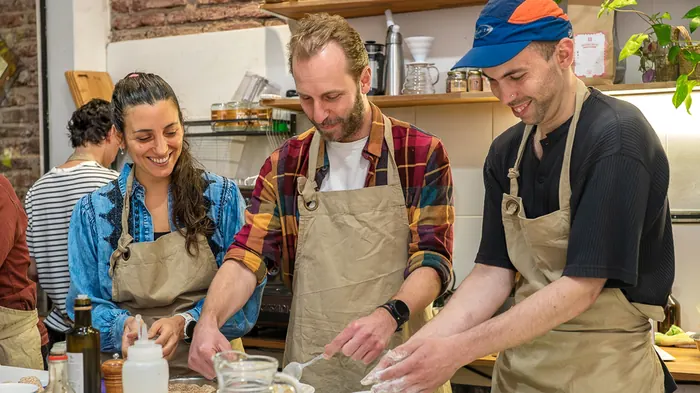
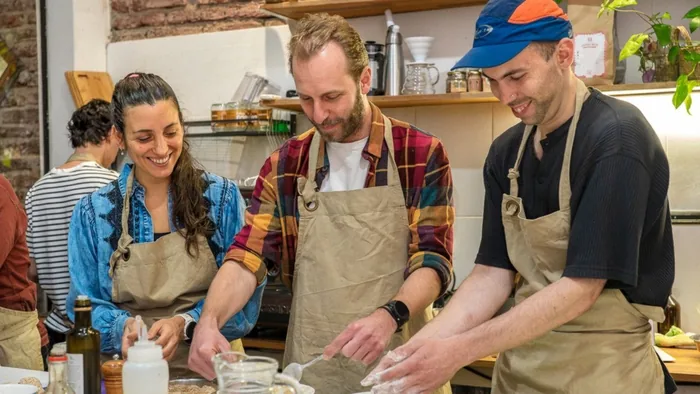
/curso: arriba solo fecha, precio y botón; la boleta completa baja al cierre y se lee en oraciones
- El hero cuenta qué es el curso y ofrece un paso corto: cuándo arranca,
  cuánto sale y «Reservar mi lugar». La ficha con cuotas, grupos y formas de
  pago pasa al cierre, como en /tapeo.
- La boleta pierde la letra de máquina y las mayúsculas espaciadas: cada
  renglón es una oración. Las frases de inicio y de grupos salen de
  data/ofertas.json (curso.inicio_frase y curso.grupos_frase).
- La foto del hero va entera en la computadora, sin cortarse contra el borde.
- La foto del grupo pierde el sobreenfoque y se muestra a 704 px como máximo.

diff --git a/curso.html b/curso.html
@@ -58,69 +58,64 @@
 .hero-leo{font-size:var(--t-nota);color:var(--cal-med);margin-bottom:1.5rem;padding-bottom:1.5rem;border-bottom:1px solid var(--linea)}
 .hero-leo strong{color:var(--cal)}
 .marca-chip{display:inline-flex;align-items:center;border:1px solid var(--linea);border-radius:var(--r);padding:.4rem .85rem;font-family:var(--texto);font-size:var(--t-nota);color:var(--cal-med)}
-@media (max-width:940px){.hero-caja{grid-template-columns:1fr}.hero-col-foto{order:-1}.hero-foto{aspect-ratio:4/3;margin-bottom:1rem}}
-/* En una sola columna (celular y tableta) la ficha de precio medía 871 px en
-   un teléfono de 375: más que la pantalla entera. Y los huecos entre las
-   piezas del hero iban de 0 a 37 px sin orden: el título quedaba pegado a la
-   frase de abajo. Acá va un solo ritmo: 12 px dentro del bloque de título,
-   28 px entre bloques. La ficha pierde relleno y las filas que repetían la
-   fecha de inicio y el lugar, que ya están arriba. La foto pasa de una franja
-   de 4:3 a un cuadro, para que se vean las caras de la clase. */
-@media (max-width:940px){
-  .hero-curso .hero-caja .hero-datos{margin-bottom:.6rem}
-  .hero-curso h1{margin-block:.75rem}
-  .hero-curso .hero-tesis{margin-bottom:0}
-  .hero-curso .hero-caja .comanda{margin-top:1.75rem;padding:1rem 1.05rem .95rem}
-  .hero-curso .comanda-cifra{margin-block:.6rem .15rem;font-size:2.1rem}
-  .hero-curso .comanda-porclase{margin-bottom:.45rem}
-  /* El ahorro va como renglón y no como recuadro: el borde y el relleno sumaban 20 px. */
-  .hero-curso .comanda-ahorro{border:0;padding:0;display:block}
-  .hero-curso .comanda-datos{margin-block:.55rem;padding-top:.55rem}
-  .hero-curso .comanda-datos li{padding-block:.2rem}
-  .hero-curso .comanda-acciones{margin-top:.75rem}
-  .hero-curso .comanda-nota{margin-top:.5rem}
-  .hero-curso .comanda-pagos{margin-top:.6rem;padding-top:.55rem;line-height:1.55}
-  .hero-curso .hero-caja .hero-foto{margin-top:1.75rem;margin-bottom:0;aspect-ratio:1/1}
-  .hero-curso .hero-foto img{object-position:50% 38%}
-  .hero-curso .hero-caja .bajada{margin-top:1.75rem;margin-bottom:0}
-  .hero-curso .hero-caja .hero-leo{margin-top:1rem;margin-bottom:0;padding-bottom:0;border-bottom:0}
-  /* La raya y los 48 px de abajo de esta línea, más el relleno del hero y el
-     de la sección siguiente, sumaban un hueco de casi 300 px antes de
-     «Después del curso». */
-  .hero-curso{padding-bottom:.5rem}
-  /* La ficha del cierre usa el mismo compacto que la de arriba. */
-  .cierre .comanda{padding:1rem 1.05rem .95rem}
-  .cierre .comanda-cifra{margin-block:.6rem .15rem;font-size:2.1rem}
-  .cierre .comanda-datos{margin-block:.55rem;padding-top:.55rem}
-  .cierre .comanda-datos li{padding-block:.2rem}
-  .cierre .comanda-ahorro{border:0;padding:0;display:block}
-}
-/* En el teléfono la cabeza de la ficha partía en tres columnas angostas:
-   «Inscripción · Octubre 2026» a un lado y los dos horarios al otro. Va una
-   debajo de la otra. */
-@media (max-width:560px){.comanda-cabeza{flex-direction:column;align-items:flex-start;gap:.3rem}}
-/* En la computadora la comanda baja hasta los 1.370 px y la foto terminaba a
-   los 800: quedaba media columna vacía. La foto acompaña a la comanda
-   mientras se lee, con el alto de la pantalla como tope. */
+
+/* El hero cuenta qué es el curso y ofrece un solo paso: cuándo arranca,
+   cuánto sale y el botón. La ficha entera con cuotas, grupos y formas de
+   pago baja al cierre, después de los motivos y las dudas, como en /tapeo.
+   Leo, 30/9: «no dejaría tan arriba el ticket». */
+.al-paso{margin-top:1.6rem;padding-top:1.1rem;border-top:1px solid var(--linea);max-width:31rem}
+.al-paso-fecha{font-family:var(--display);font-size:var(--t-bajada);font-weight:500;letter-spacing:-.015em;line-height:1.25;color:var(--cal)}
+.al-paso-precio{margin-top:.35rem;font-size:var(--t-cuerpo);color:var(--cal-med);line-height:1.5;text-wrap:pretty}
+.al-paso-precio strong{color:var(--cal);font-weight:700;font-variant-numeric:tabular-nums}
+.al-paso .comanda-acciones{margin-top:1.05rem}
+.al-paso-mas{margin-top:.8rem;font-size:var(--t-chico);color:var(--cal-med);line-height:1.5}
+.hero-curso .hero-leo{border-bottom:0;padding-bottom:0;margin-top:.9rem}
+
+/* La foto va entera, en su formato de 3 × 4: recortada al ancho de la
+   pantalla se perdía la señora de la izquierda y la foto crecía hasta los
+   760 px de alto. */
 @media (min-width:941px){
-  /* overflow:hidden del encabezado anulaba el sticky; clip recorta igual.
-     Donde clip no existe queda hidden y la foto simplemente no acompaña. */
-  .hero-curso{overflow:clip}
-  .hero-col-foto{position:sticky;top:calc(var(--nav-h) + 1.5rem)}
-  .hero-col-foto .hero-foto{aspect-ratio:auto;height:min(76vh,760px)}
-  .hero-col-foto .hero-foto img{width:100%;height:100%;object-fit:cover}
+  .hero-curso .hero-caja{grid-template-columns:minmax(0,1.3fr) minmax(0,.7fr);align-items:center}
+  .hero-curso .hero-col-foto .hero-foto{margin-right:0;border-radius:var(--r-lg);aspect-ratio:3/4}
+  .hero-curso .bajada{margin-top:1.6rem}
 }
 
-/* ---------- LA COMANDA ---------- */
-.comanda{position:relative;background:var(--musgo);border:1px solid var(--linea);border-radius:4px;padding:1.25rem 1.3rem 1.2rem;box-shadow:0 26px 60px rgba(0,0,0,.45)}
-.comanda-cifra{margin-block:.75rem .2rem;font-family:var(--display);font-size:clamp(2.2rem,3.9vw,2.75rem);color:var(--cal);line-height:1;letter-spacing:-.04em}
-.comanda-cifra small{display:block;font-family:var(--dato);font-size:var(--t-dato);letter-spacing:.14em;text-transform:uppercase;color:var(--cal-baja);margin-bottom:.35rem;font-weight:400}
-.comanda-porclase{font-family:var(--dato);font-size:var(--t-nota);color:var(--cal-med);margin-bottom:.7rem}
-.comanda-ahorro{display:inline-flex;align-items:center;gap:.4rem;font-family:var(--dato);font-size:var(--t-nota);letter-spacing:.05em;color:var(--miel);border:1px solid rgba(240,179,85,.32);border-radius:var(--r);padding:.3rem .8rem;margin-bottom:.6rem}
-.comanda-datos{margin-block:.75rem;display:grid;gap:.05rem;border-top:1px dashed var(--linea-fuerte);padding-top:.85rem}
-.comanda-datos li{display:flex;justify-content:space-between;align-items:baseline;gap:1rem;padding-block:.32rem;font-family:var(--dato);font-size:var(--t-nota);line-height:1.5}
-.comanda-nota{font-size:var(--t-dato);color:var(--cal-baja);line-height:1.5;margin-top:.8rem}
-.comanda-pagos{font-family:var(--dato);font-size:var(--t-nota);letter-spacing:.04em;color:var(--cal-baja);line-height:1.7;margin-top:.7rem;border-top:1px dashed var(--linea-fuerte);padding-top:.7rem}
+/* En una columna el orden es señal, título, tesis, foto, el paso corto de
+   reserva, la bajada y la línea de Leonardo. Un solo ritmo: 12 px dentro del
+   bloque de título y 28 px entre bloques. */
+@media (max-width:940px){
+  .hero-curso .hero-caja .hero-datos{order:6;margin:.5rem 0 0;font-size:var(--t-nota)}
+  .hero-curso h1{margin-block:.75rem}
+  .hero-curso .hero-tesis{margin-bottom:0}
+  .hero-curso .hero-caja .hero-foto{margin-top:1.75rem;margin-bottom:0;aspect-ratio:1/1}
+  .hero-curso .hero-foto img{object-position:50% 38%}
+  .hero-curso .hero-caja .al-paso{order:7;margin-top:1.5rem;max-width:none}
+  .hero-curso .hero-caja .bajada{order:8;margin-top:1.75rem;margin-bottom:0}
+  .hero-curso .hero-caja .hero-leo{order:9;margin-top:1rem;margin-bottom:0}
+  .hero-curso{padding-bottom:.5rem}
+}
+
+/* ---------- LA BOLETA DEL CIERRE ----------
+   Sigue siendo el papel dentado de la cocina, pero se lee como texto: sin
+   letra de máquina, sin mayúsculas espaciadas y sin rótulos sueltos. Cada
+   renglón es una oración. */
+.comanda{position:relative;background:var(--musgo);border:1px solid var(--linea);border-radius:4px;padding:1.25rem 1.3rem 1.2rem}
+.cierre .boleta{max-width:27rem;width:100%;justify-self:end;border-radius:0;border-block-color:transparent;padding:1.5rem 1.4rem 1.35rem}
+.boleta-cabeza{display:flex;flex-wrap:wrap;justify-content:space-between;align-items:baseline;gap:.25rem 1rem;padding-bottom:.8rem;border-bottom:1px dashed var(--linea-fuerte)}
+.boleta-titulo{margin:0;font-family:var(--display);font-size:var(--t-bajada);font-weight:500;letter-spacing:-.01em;color:var(--cal)}
+.boleta-cuenta{font-size:var(--t-nota);color:var(--brote);white-space:nowrap}
+.boleta-cuenta:empty{display:none}
+.boleta-precio{margin-top:1rem;font-family:var(--display);font-size:var(--t-mayor);letter-spacing:-.02em;line-height:1.25;color:var(--cal-med)}
+.boleta-precio strong{color:var(--cal);font-weight:600;font-variant-numeric:tabular-nums}
+.boleta-texto{margin-top:.45rem;font-size:var(--t-chico);color:var(--cal-med);line-height:1.5}
+.boleta-lista{margin-top:1rem;padding-top:.9rem;border-top:1px dashed var(--linea-fuerte);display:grid;gap:.5rem;font-size:var(--t-chico);color:var(--cal-med);line-height:1.45}
+.boleta-lista li{position:relative;padding-left:1.05rem}
+.boleta-lista li::before{content:"";position:absolute;left:0;top:.7em;width:.45rem;height:1px;background:var(--cal-baja)}
+.boleta-grupos{margin-top:1rem;padding-top:.9rem;border-top:1px dashed var(--linea-fuerte);font-size:var(--t-chico);color:var(--cal);line-height:1.5;text-wrap:pretty}
+.boleta .comanda-acciones{margin-top:1.15rem}
+.boleta .comanda-nota{font-size:var(--t-nota);color:var(--cal-med);margin-top:.6rem}
+.boleta .comanda-nota:first-of-type{margin-top:.9rem}
+@media (max-width:940px){.cierre .boleta{justify-self:stretch;max-width:none;padding:1.25rem 1.1rem 1.15rem}}
 
 /* ---------- Encabezados de sección ---------- */
 .encabezado{margin-bottom:2.25rem}
@@ -159,9 +154,12 @@
 @media (max-width:820px){.equipo{grid-template-columns:1fr}}
 
 /* ---------- BANDA DE FOTO ---------- */
-.banda{position:relative;max-width:1200px;margin-inline:auto;border-radius:var(--r-lg);overflow:hidden;aspect-ratio:21/9}
+/* La foto del grupo iba a 1.120 × 480 px y se veía blanda: el archivo mide
+   1.200 de ancho. A 704 px como máximo cada punto de pantalla tiene píxeles de
+   sobra, también en pantallas de doble densidad. */
+.banda{position:relative;max-width:44rem;margin-inline:0;border-radius:var(--r-lg);overflow:hidden;aspect-ratio:16/9}
 .banda img{width:100%;height:100%;object-fit:cover}
-@media (max-width:620px){.banda{aspect-ratio:4/3}}
+@media (max-width:620px){.banda{aspect-ratio:3/2}}
 
 /* ---------- GRUPOS ---------- */
 /* El grupo abierto va primero: no hacer scrollear dos opciones muertas.
@@ -260,34 +258,20 @@
       <span class="senal">Curso presencial de cocina saludable en Parque Rodó, Montevideo</span>
       <h1>Aprendés a cocinar de forma consciente, <br>creativa y con más autonomía.</h1>
       <p class="hero-tesis">Elaborás postres sin azúcares añadidos, quesos vegetales, fermentos, sushi, pastas, tartas saladas y platos principales completos.</p>
-      <p class="bajada">Es una propuesta principalmente práctica para cocinar de forma consciente, creativa y con más autonomía, en Parque Rodó, Montevideo. Empezamos por las bases y las materias primas, y avanzamos hacia los platos más elaborados.</p>
-      <p class="hero-leo">Aprendés directamente con <strong>Leonardo Lemes</strong>, que lleva 25 años cocinando, 13 enseñando y más de 1.200 personas formadas.</p>
-
-      <div class="comanda">
-        <div class="comanda-cabeza">
-          <span class="comanda-titulo"><!--o:curso.inscripcion_titulo-->Inscripción · Octubre 2026<!--/o--></span>
-          <span class="comanda-estado" id="curso-countdown-tag" data-set="data-inicio-iso=curso.inicio_iso" data-inicio-iso="2026-10-07"><!--o:curso.inicio_texto-->Arranca el miércoles 7 de octubre<!--/o--></span>
-        </div>
-        <p class="comanda-cifra"><small>Precio total bonificado</small><!--o:curso.precio_total-->$12.200<!--/o--></p>
-        <p class="comanda-porclase"><!--o:curso.porclase_texto-->3 meses · 12 clases de 2 horas, una por semana<!--/o--></p>
-        <p class="comanda-ahorro">Ahorrás <!--o:curso.ahorro-->$2.200<!--/o--> pagando el curso completo</p>
-        <ul class="comanda-datos">
-          <li><strong>Mes a mes</strong><span><!--o:curso.cuotas_corto-->3 de $4.800<!--/o--></span></li>
-          <li><strong>Con tarjeta</strong><span>hasta <!--o:curso.cuotas_tarjeta_corto-->12 de $1.016 sin recargo<!--/o--></span></li>
-          <li><strong><!--o:curso.grupos_label-->Grupos abiertos<!--/o--></strong><span><!--o:curso.grupos_abiertos_texto-->Miércoles 19:00–21:00 · Jueves 10:00–12:00<!--/o--></span></li>
-        </ul>
+      <div class="al-paso">
+        <p class="al-paso-fecha"><!--o:curso.inicio_frase-->Arranca el miércoles 7 de octubre o el jueves 8 de octubre, según el grupo.<!--/o--></p>
+        <p class="al-paso-precio">El curso completo cuesta <strong><!--o:curso.precio_total-->$12.200<!--/o--></strong>, o <!--o:curso.precio_tarjeta-->hasta 12 cuotas de $1.016 sin recargo<!--/o--> con tarjeta.</p>
         <div class="comanda-acciones">
           <a data-set="href=curso.cta_link" href="https://wa.me/59894064148?text=Hola%20Leonardo%2C%20quiero%20reservar%20mi%20lugar%20en%20el%20curso.%20Me%20interesa%20el%20grupo%20de%20los%20mi%C3%A9rcoles%20de%2019%3A00%20a%2021%3A00%20o%20el%20de%20los%20jueves%20de%2010%3A00%20a%2012%3A00." target="_blank" rel="noopener noreferrer" class="btn btn-primario" data-producto="curso"><!--o:curso.cta_texto-->Reservar mi lugar<!--/o--></a>
-          <a href="/programa" class="btn btn-linea" data-producto="programa">Ver el programa completo</a>
         </div>
-        <p class="comanda-nota"><!--o:curso.cta_nota-->Te escribimos por WhatsApp en menos de 24 h para confirmar tu lugar<!--/o--></p>
-        <p class="comanda-nota">¿No usás WhatsApp? Escribinos a <a href="mailto:nutreclorofila@gmail.com?subject=Consulta%20del%20curso%20%E2%80%94%20desde%20la%20web" class="enlace-vivo">nutreclorofila@gmail.com</a></p>
-        <p class="comanda-pagos">Tarjeta · Transferencia · Abitab · RedPagos · MercadoPago</p>
+        <p class="al-paso-mas">¿Querés ver las 12 clases una por una? <a href="/programa" class="enlace-vivo" data-producto="programa">Mirá el programa completo</a>.</p>
       </div>
+      <p class="bajada">Es una propuesta principalmente práctica para cocinar de forma consciente, creativa y con más autonomía, en Parque Rodó, Montevideo. Empezamos por las bases y las materias primas, y avanzamos hacia los platos más elaborados.</p>
+      <p class="hero-leo">Aprendés directamente con <strong>Leonardo Lemes</strong>, que lleva 25 años cocinando, 13 enseñando y más de 1.200 personas formadas.</p>
     </div>
     <div class="hero-col-foto">
       <figure class="hero-foto">
-        <picture><source srcset="img-clase-masa-480.webp 480w, img-clase-masa-700.webp 700w, img-clase-masa.webp 975w" sizes="(max-width: 940px) calc(100vw - 3rem), 44vw" type="image/webp"><img src="img-clase-masa.jpg" width="975" height="1300" alt="Clase del curso de cocina basada en plantas de Clorofila, en Parque Rodó, Montevideo" loading="eager" fetchpriority="high" decoding="async"></picture>
+        <picture><source srcset="img-clase-masa-480.webp 480w, img-clase-masa-700.webp 700w, img-clase-masa.webp 975w" sizes="(max-width: 940px) calc(100vw - 3rem), 34vw" type="image/webp"><img src="img-clase-masa.jpg" width="975" height="1300" alt="Clase del curso de cocina basada en plantas de Clorofila, en Parque Rodó, Montevideo" loading="eager" fetchpriority="high" decoding="async"></picture>
       </figure>
         <p class="hero-datos"><b><!--o:google.puntaje_texto-->4,9<!--/o--></b> en <!--o:google.resenas_texto-->23 reseñas en Google<!--/o-->.</p>
     </div>
@@ -422,7 +406,7 @@
 <section class="seccion-sm">
   <div class="env">
     <figure class="banda sube">
-      <picture><source srcset="img-clase-grupo-480.webp 480w, img-clase-grupo-700.webp 700w, img-clase-grupo.webp 1200w" sizes="(max-width: 1240px) 100vw, 1200px" type="image/webp"><img src="img-clase-grupo.jpg" width="1200" height="675" alt="Grupo trabajando alrededor de la mesa grande en una clase de Clorofila" loading="lazy" decoding="async"></picture>
+      <picture><source srcset="img-clase-grupo-480.webp 480w, img-clase-grupo-700.webp 700w, img-clase-grupo.webp 1200w" sizes="(max-width: 760px) calc(100vw - 3rem), 704px" type="image/webp"><img src="img-clase-grupo.jpg" width="1200" height="675" alt="Grupo trabajando alrededor de la mesa grande en una clase de Clorofila" loading="lazy" decoding="async"></picture>
     </figure>
   </div>
 </section>
@@ -534,27 +518,26 @@
       <p class="bajada"><!--o:curso.cierre_bajada-->Contanos qué estás buscando y te decimos si este curso te sirve. Te contesta Leonardo.<!--/o--></p>
       <p class="otras">¿Querés ver todo el contenido clase por clase? <a href="/programa" class="enlace-vivo">El programa completo</a> <br>¿Preferís probar antes con algo más corto? <a href="/talleres" class="enlace-vivo">Los talleres de un día</a> <br>¿Es para regalar? <a data-set="href=curso.regalo_link" href="https://wa.me/59894064148?text=Hola%20Leonardo%2C%20quiero%20regalar%20el%20curso%20de%20cocina.%20%C2%BFC%C3%B3mo%20hago%20con%20la%20gift%20card%3F" target="_blank" rel="noopener noreferrer" class="enlace-vivo" data-producto="curso-regalo">Tenemos <span lang="en">gift card</span></a></p>
     </div>
-    <div class="comanda sube">
-      <div class="comanda-cabeza">
-        <span class="comanda-titulo"><!--o:curso.inscripcion_titulo-->Inscripción · Octubre 2026<!--/o--></span>
-        <span class="comanda-estado"><!--o:curso.grupos_abiertos_texto-->Miércoles 19:00–21:00 · Jueves 10:00–12:00<!--/o--></span>
+    <div class="comanda boleta sube">
+      <div class="boleta-cabeza">
+        <h3 class="boleta-titulo"><!--o:curso.edicion_titulo-->Edición octubre 2026<!--/o--></h3>
+        <p class="boleta-cuenta" data-set="data-inicio-iso=curso.inicio_iso" data-inicio-iso="2026-10-07" data-cuenta></p>
       </div>
-      <p class="comanda-cifra"><small>Precio total bonificado</small><!--o:curso.precio_total-->$12.200<!--/o--></p>
-      <p class="comanda-porclase"><!--o:curso.porclase_texto-->3 meses · 12 clases de 2 horas, una por semana<!--/o--></p>
-      <p class="comanda-ahorro">Ahorrás <!--o:curso.ahorro-->$2.200<!--/o--> pagando el curso completo</p>
-      <ul class="comanda-datos">
-        <li><strong>Mes a mes</strong><span><!--o:curso.cuotas_corto-->3 de $4.800<!--/o--></span></li>
-        <li><strong>Con tarjeta</strong><span>hasta <!--o:curso.cuotas_tarjeta_corto-->12 de $1.016 sin recargo<!--/o--></span></li>
+      <p class="boleta-precio">El curso completo cuesta <strong><!--o:curso.precio_total-->$12.200<!--/o--></strong>.</p>
+      <p class="boleta-texto">Son 12 clases de 2 horas, una por semana, durante tres meses. Los ingredientes y el recetario están incluidos.</p>
+      <ul class="boleta-lista">
+        <li>Con tarjeta son <!--o:curso.precio_tarjeta-->hasta 12 cuotas de $1.016 sin recargo<!--/o-->.</li>
+        <li>Mes a mes son <!--o:curso.precio_cuotas-->3 cuotas de $4.800<!--/o-->, y el total queda <!--o:curso.ahorro-->$2.200<!--/o--> más alto.</li>
+        <li>También aceptamos transferencia, Abitab, RedPagos y MercadoPago.</li>
       </ul>
-      <ul class="comanda-datos">
-        <li><strong>Inicio</strong><span><!--o:curso.inicio_texto-->Arranca el miércoles 7 de octubre<!--/o--></span></li>
-        <li><strong><!--o:curso.grupos_label-->Grupos abiertos<!--/o--></strong><span><!--o:curso.grupos_abiertos_texto-->Miércoles 19:00–21:00 · Jueves 10:00–12:00<!--/o--></span></li>
-      </ul>
+      <p class="boleta-grupos"><!--o:curso.grupos_frase-->Hay dos grupos: los miércoles de 19:00 a 21:00, desde el 7 de octubre, o los jueves de 10:00 a 12:00, desde el 8 de octubre.<!--/o--></p>
       <div class="comanda-acciones">
         <a data-set="href=curso.cta_link" href="https://wa.me/59894064148?text=Hola%20Leonardo%2C%20quiero%20reservar%20mi%20lugar%20en%20el%20curso.%20Me%20interesa%20el%20grupo%20de%20los%20mi%C3%A9rcoles%20de%2019%3A00%20a%2021%3A00%20o%20el%20de%20los%20jueves%20de%2010%3A00%20a%2012%3A00." target="_blank" rel="noopener noreferrer" class="btn btn-primario" data-producto="curso"><!--o:curso.cta_texto-->Reservar mi lugar<!--/o--></a>
         <a href="https://wa.me/59894064148?text=Hola%20Leonardo%2C%20quiero%20info%20del%20curso%20de%20Clorofila." target="_blank" rel="noopener noreferrer" class="btn btn-linea" data-producto="curso">Preguntar por WhatsApp</a>
       </div>
-      <p class="comanda-nota">Maldonado 1976 esq. Blanes · Parque Rodó · <a href="https://maps.app.goo.gl/DnqBneEmi1GHNUjG9" target="_blank" rel="noopener noreferrer" class="enlace-vivo">Cómo llegar</a></p>
+      <p class="comanda-nota"><!--o:curso.cta_nota-->Te escribimos por WhatsApp en menos de 24 h para confirmar tu lugar.<!--/o--></p>
+      <p class="comanda-nota">¿No usás WhatsApp? Escribinos a <a href="mailto:nutreclorofila@gmail.com?subject=Consulta%20del%20curso%20%E2%80%94%20desde%20la%20web" class="enlace-vivo">nutreclorofila@gmail.com</a>.</p>
+      <p class="comanda-nota">Estamos en Maldonado 1976 esq. Blanes, Parque Rodó. <a href="https://maps.app.goo.gl/DnqBneEmi1GHNUjG9" target="_blank" rel="noopener noreferrer" class="enlace-vivo">Cómo llegar</a></p>
     </div>
   </div>
 </section>

diff --git a/scripts/render-ofertas.js b/scripts/render-ofertas.js
@@ -468,7 +468,7 @@ datos.curso.wa_link = waBase + encodeURIComponent(
   'Hola Leonardo, tengo una pregunta sobre el curso de cocina.'
 );
 datos.curso.cta_nota = abiertos.length
-  ? 'Te escribimos por WhatsApp en menos de 24 h para confirmar tu lugar'
+  ? 'Te escribimos por WhatsApp en menos de 24 h para confirmar tu lugar.'
   : 'No hay edición abierta ahora. Dejanos tus datos y te avisamos cuando abramos la próxima.';
 for (const g of datos.curso.grupos) {
   datos.curso['grupo_' + g.id + '_estado_texto'] = g.estado === 'abierto' ? 'Abierto' : 'Grupo cerrado';
@@ -515,6 +515,22 @@ datos.curso.inscripcion_titulo = 'Inscripción · ' + datos.curso.edicion;
 // va la carga horaria y nada más: 12 clases de 2 h son 24 h, que es lo que
 // declara courseWorkload en el schema.
 datos.curso.porclase_texto = '3 meses · 12 clases de 2 horas, una por semana';
+
+/* El hero y la boleta de /curso hablan en oraciones y no en rótulos: Leo
+   pidió el 30/9 que el ticket se lea como texto y no como planilla. Estas dos
+   frases dicen cuándo arranca y qué grupos hay, con los grupos abiertos. */
+const sinArranca = function (g) { return g.inicio_texto.replace(/^arranca el /i, ''); };
+datos.curso.inicio_frase = abiertos.length === 0 ? 'La próxima edición todavía no tiene fecha.'
+  : abiertos.length === 1 ? abiertos[0].inicio_texto + '.'
+  : 'Arranca el ' + abiertos.map(sinArranca).join(' o el ') + ', según el grupo.';
+const unGrupo = function (g) {
+  return 'los ' + g.nombre.toLowerCase() + ' de ' + g.horario.replace(' h', '') +
+    ', desde el ' + sinArranca(g).replace(/^\S+\s+/, '');
+};
+datos.curso.grupos_frase = abiertos.length === 0 ? 'La próxima edición todavía no tiene fecha.'
+  : abiertos.length === 1 ? 'El grupo abierto es el de ' + unGrupo(abiertos[0]) + '.'
+  : 'Hay ' + ({ 2: 'dos', 3: 'tres' }[abiertos.length] || abiertos.length) + ' grupos: ' +
+    abiertos.map(unGrupo).join(', o ') + '.';
 
 // La cantidad de horarios se dice en palabras, y cambia si son dos o tres.
 const cuantos = { 1: 'un horario', 2: 'dos horarios', 3: 'tres horarios' }[nombres.length]
